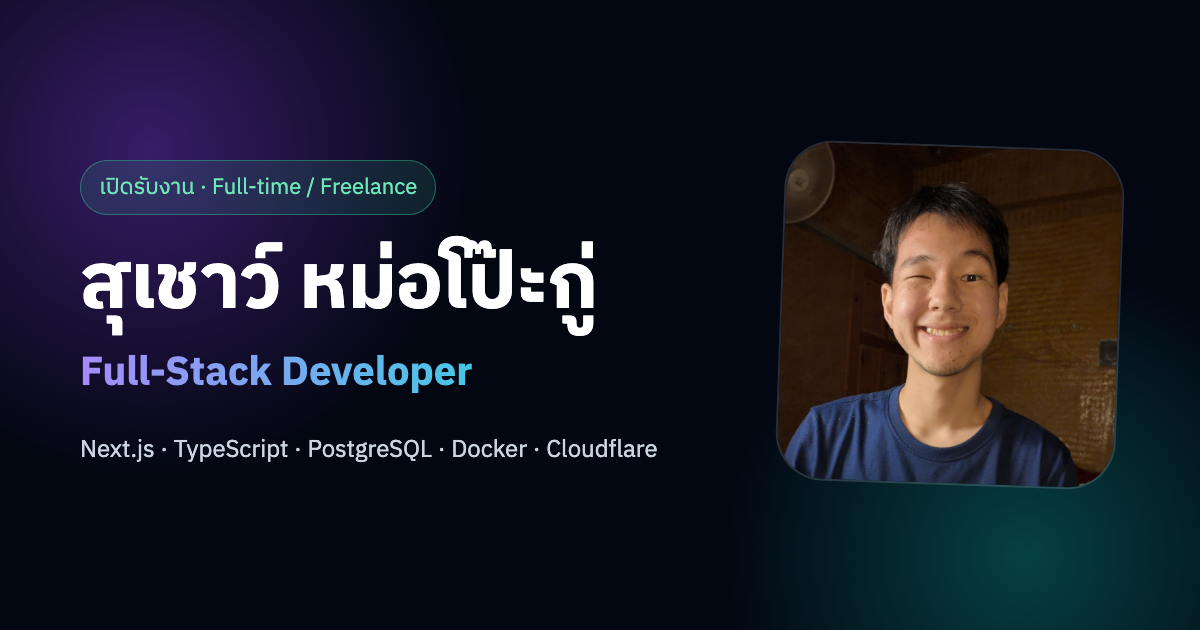
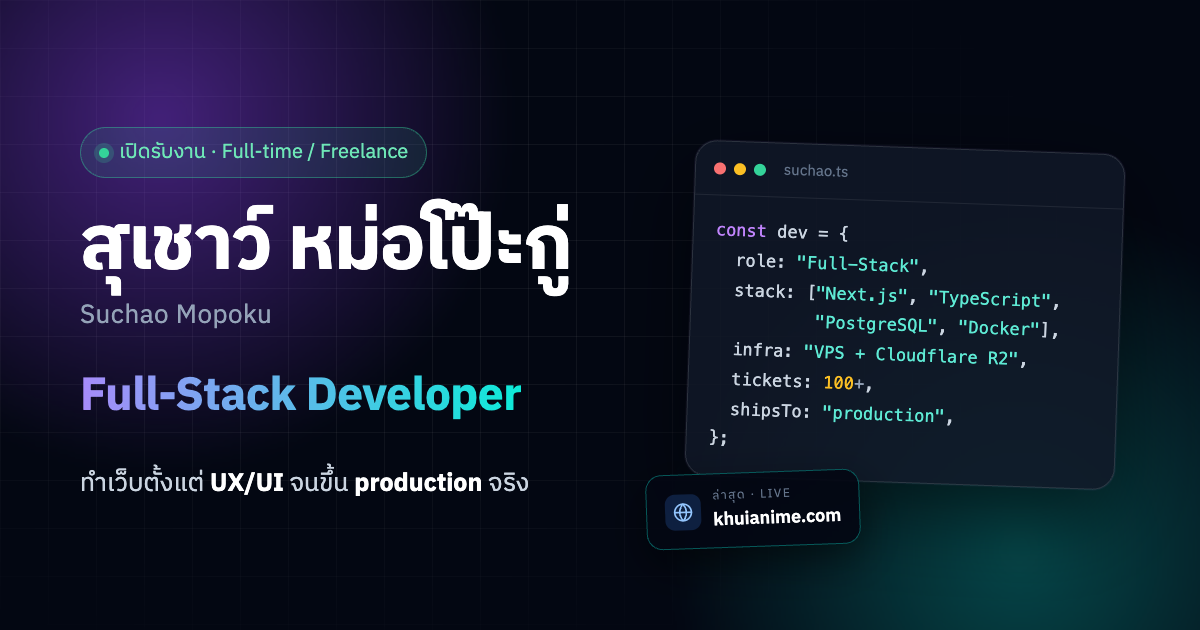
Redesign OG image without photo

diff --git a/scripts/og.html b/scripts/og.html
@@ -11,33 +11,82 @@
   @font-face { font-family: Plex; font-weight: 400; src: url(../node_modules/@fontsource/ibm-plex-sans-thai/files/ibm-plex-sans-thai-thai-400-normal.woff2); }
   @font-face { font-family: Plex; font-weight: 700; src: url(../node_modules/@fontsource/ibm-plex-sans-thai/files/ibm-plex-sans-thai-thai-700-normal.woff2); }
   @font-face { font-family: PlexL; font-weight: 400; src: url(../node_modules/@fontsource/ibm-plex-sans-thai/files/ibm-plex-sans-thai-latin-400-normal.woff2); }
+  @font-face { font-family: PlexL; font-weight: 600; src: url(../node_modules/@fontsource/ibm-plex-sans-thai/files/ibm-plex-sans-thai-latin-600-normal.woff2); }
   @font-face { font-family: PlexL; font-weight: 700; src: url(../node_modules/@fontsource/ibm-plex-sans-thai/files/ibm-plex-sans-thai-latin-700-normal.woff2); }
   * { margin: 0; box-sizing: border-box; }
   body { width: 1200px; height: 630px; overflow: hidden; background: #030712; color: #fff;
-    font-family: PlexL, Plex, sans-serif; display: flex; align-items: center; gap: 64px; padding: 0 80px; position: relative; }
-  .glow { position: absolute; inset: -200px auto auto -200px; width: 700px; height: 700px; border-radius: 50%;
-    background: radial-gradient(circle, rgba(120,54,207,.45), transparent 65%); }
-  .glow2 { position: absolute; right: -150px; bottom: -250px; width: 650px; height: 650px; border-radius: 50%;
-    background: radial-gradient(circle, rgba(13,235,216,.25), transparent 65%); }
-  .text { position: relative; flex: 1; }
-  .chip { display: inline-block; padding: 8px 18px; border-radius: 999px; border: 1px solid rgba(52,211,153,.4);
-    background: rgba(52,211,153,.12); color: #6ee7b7; font-size: 22px; margin-bottom: 28px; }
-  h1 { font-size: 78px; line-height: 1.1; font-weight: 700; margin-bottom: 12px; }
-  .role { font-size: 40px; font-weight: 700; background: linear-gradient(90deg,#a78bfa,#0debd8);
-    -webkit-background-clip: text; color: transparent; margin-bottom: 24px; }
-  .stack { font-size: 24px; color: #cbd5e1; }
-  img { position: relative; width: 340px; height: 340px; object-fit: cover; border-radius: 48px;
-    border: 2px solid rgba(255,255,255,.15); transform: rotate(2deg); }
+    font-family: PlexL, Plex, sans-serif; position: relative; }
+
+  /* background: grid + glows */
+  .grid { position: absolute; inset: 0;
+    background-image: linear-gradient(rgba(255,255,255,.05) 1px, transparent 1px),
+                      linear-gradient(90deg, rgba(255,255,255,.05) 1px, transparent 1px);
+    background-size: 48px 48px;
+    mask-image: radial-gradient(ellipse 80% 90% at 30% 40%, #000 30%, transparent 75%); }
+  .glow { position: absolute; border-radius: 50%; filter: blur(10px); }
+  .g1 { left: -220px; top: -260px; width: 760px; height: 760px; background: radial-gradient(circle, rgba(120,54,207,.55), transparent 65%); }
+  .g2 { right: -200px; bottom: -300px; width: 760px; height: 760px; background: radial-gradient(circle, rgba(13,235,216,.28), transparent 65%); }
+
+  .wrap { position: relative; height: 100%; padding: 72px 80px; display: grid; grid-template-columns: 1fr 430px; gap: 48px; align-items: center; }
+
+  .chip { display: inline-flex; align-items: center; gap: 10px; padding: 8px 18px; border-radius: 999px;
+    border: 1px solid rgba(52,211,153,.4); background: rgba(52,211,153,.1); color: #6ee7b7; font-size: 20px; margin-bottom: 30px; }
+  .dot { width: 10px; height: 10px; border-radius: 50%; background: #34d399; box-shadow: 0 0 0 5px rgba(52,211,153,.2); }
+  h1 { font-family: Plex, PlexL, sans-serif; font-size: 76px; line-height: 1.05; font-weight: 700; letter-spacing: -1px; margin-bottom: 6px; }
+  .en { font-size: 26px; color: #94a3b8; margin-bottom: 22px; letter-spacing: .5px; }
+  .role { display: inline-block; font-size: 46px; font-weight: 700; letter-spacing: -.5px;
+    background: linear-gradient(90deg,#a78bfa,#0debd8); -webkit-background-clip: text; color: transparent; margin-bottom: 30px; }
+  .tag { font-family: Plex, PlexL, sans-serif; font-size: 25px; color: #cbd5e1; line-height: 1.5; }
+  .tag b { color: #fff; font-weight: 700; }
+
+  /* right: code card */
+  .card { position: relative; border-radius: 22px; background: rgba(17,24,39,.85); border: 1px solid rgba(255,255,255,.12);
+    box-shadow: 0 30px 80px rgba(0,0,0,.5), 0 0 0 1px rgba(167,139,250,.08); transform: rotate(2deg); overflow: hidden; }
+  .bar { display: flex; align-items: center; gap: 8px; padding: 14px 18px; border-bottom: 1px solid rgba(255,255,255,.08); }
+  .bar i { width: 12px; height: 12px; border-radius: 50%; display: block; }
+  .bar span { margin-left: 10px; font-size: 15px; color: #64748b; }
+  pre { font-family: "SF Mono", Menlo, monospace; font-size: 17px; line-height: 1.75; padding: 20px 22px 22px; color: #cbd5e1; }
+  .k { color: #c084fc; } .s { color: #5eead4; } .p { color: #94a3b8; } .n { color: #fbbf24; } .c { color: #475569; }
+
+  .live { position: absolute; left: -44px; bottom: -64px; display: flex; align-items: center; gap: 12px; padding: 12px 18px;
+    border-radius: 16px; background: rgba(3,7,18,.92); border: 1px solid rgba(13,235,216,.35); box-shadow: 0 16px 40px rgba(0,0,0,.5); transform: rotate(-2deg); }
+  .live .ic { width: 36px; height: 36px; border-radius: 10px; background: rgba(59,130,246,.2); display: grid; place-items: center; }
+  .live small { display: block; font-size: 12px; letter-spacing: 1.5px; text-transform: uppercase; color: #64748b; }
+  .live strong { font-size: 18px; font-weight: 600; }
+  .side { position: relative; }
+
 </style>
 </head>
 <body>
-  <div class="glow"></div><div class="glow2"></div>
-  <div class="text">
-    <div class="chip">เปิดรับงาน · Full-time / Freelance</div>
-    <h1>สุเชาว์ หม่อโป๊ะกู่</h1>
-    <div class="role">Full-Stack Developer</div>
-    <div class="stack">Next.js · TypeScript · PostgreSQL · Docker · Cloudflare</div>
+  <div class="grid"></div>
+  <div class="glow g1"></div><div class="glow g2"></div>
+
+  <div class="wrap">
+    <div>
+      <div class="chip"><span class="dot"></span>เปิดรับงาน · Full-time / Freelance</div>
+      <h1>สุเชาว์ หม่อโป๊ะกู่</h1>
+      <div class="en">Suchao Mopoku</div>
+      <div class="role">Full-Stack Developer</div>
+      <div class="tag">ทำเว็บตั้งแต่ <b>UX/UI</b> จนขึ้น <b>production</b> จริง</div>
+    </div>
+
+    <div class="side">
+      <div class="card">
+        <div class="bar"><i style="background:#f87171"></i><i style="background:#fbbf24"></i><i style="background:#34d399"></i><span>suchao.ts</span></div>
+<pre><span class="k">const</span> dev = {
+  role: <span class="s">"Full-Stack"</span>,
+  stack: [<span class="s">"Next.js"</span>, <span class="s">"TypeScript"</span>,
+          <span class="s">"PostgreSQL"</span>, <span class="s">"Docker"</span>],
+  infra: <span class="s">"VPS + Cloudflare R2"</span>,
+  tickets: <span class="n">100</span><span class="p">+</span>,
+  shipsTo: <span class="s">"production"</span>,
+};</pre>
+      </div>
+      <div class="live">
+        <div class="ic"><svg width="20" height="20" viewBox="0 0 24 24" fill="none" stroke="#93c5fd" stroke-width="2" stroke-linecap="round" stroke-linejoin="round"><circle cx="12" cy="12" r="10"/><path d="M12 2a14.5 14.5 0 0 0 0 20 14.5 14.5 0 0 0 0-20"/><path d="M2 12h20"/></svg></div>
+        <div><small>ล่าสุด · live</small><strong>khuianime.com</strong></div>
+      </div>
+    </div>
   </div>
-  <img src="../public/images/myface1.jpg" alt="" />
 </body>
 </html>
